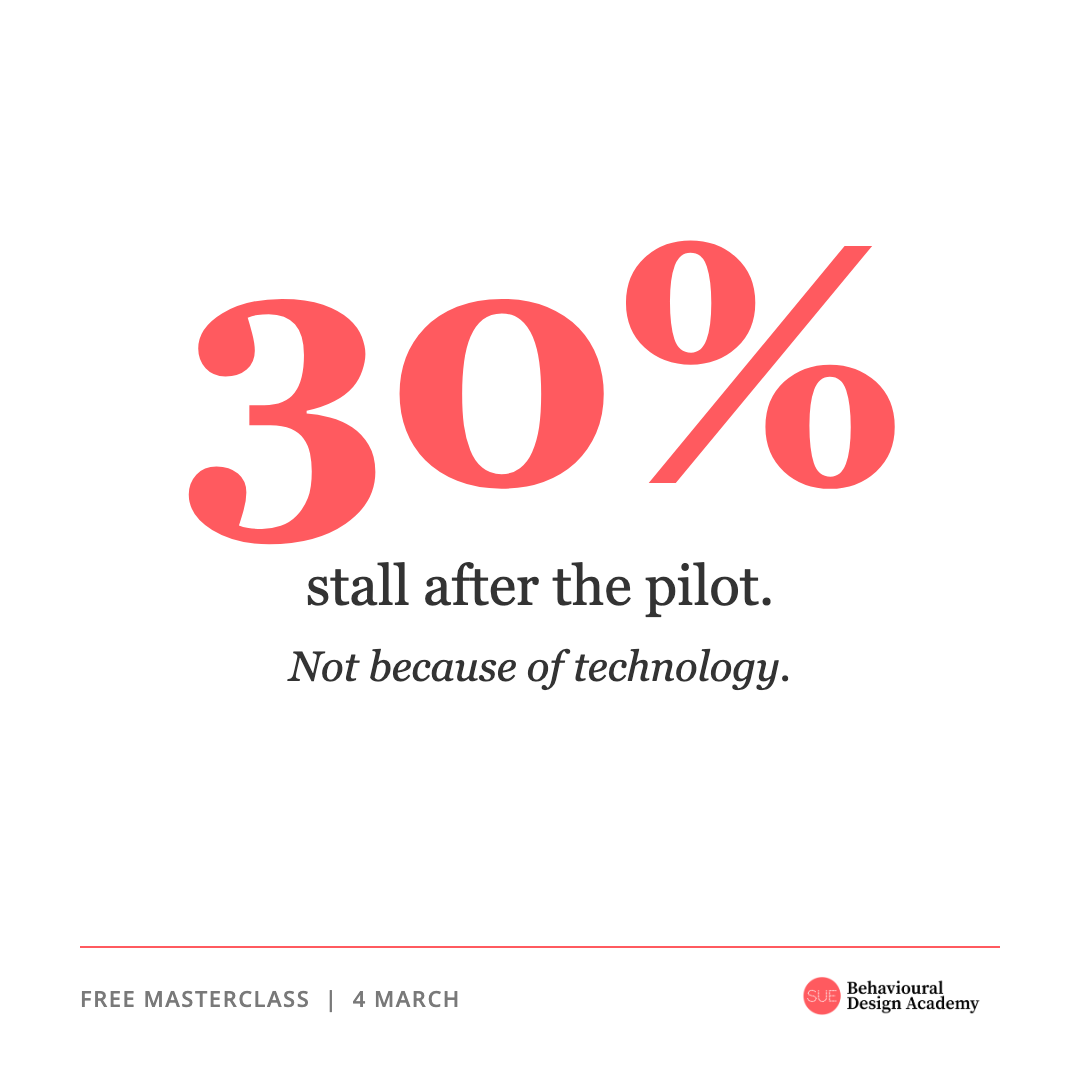
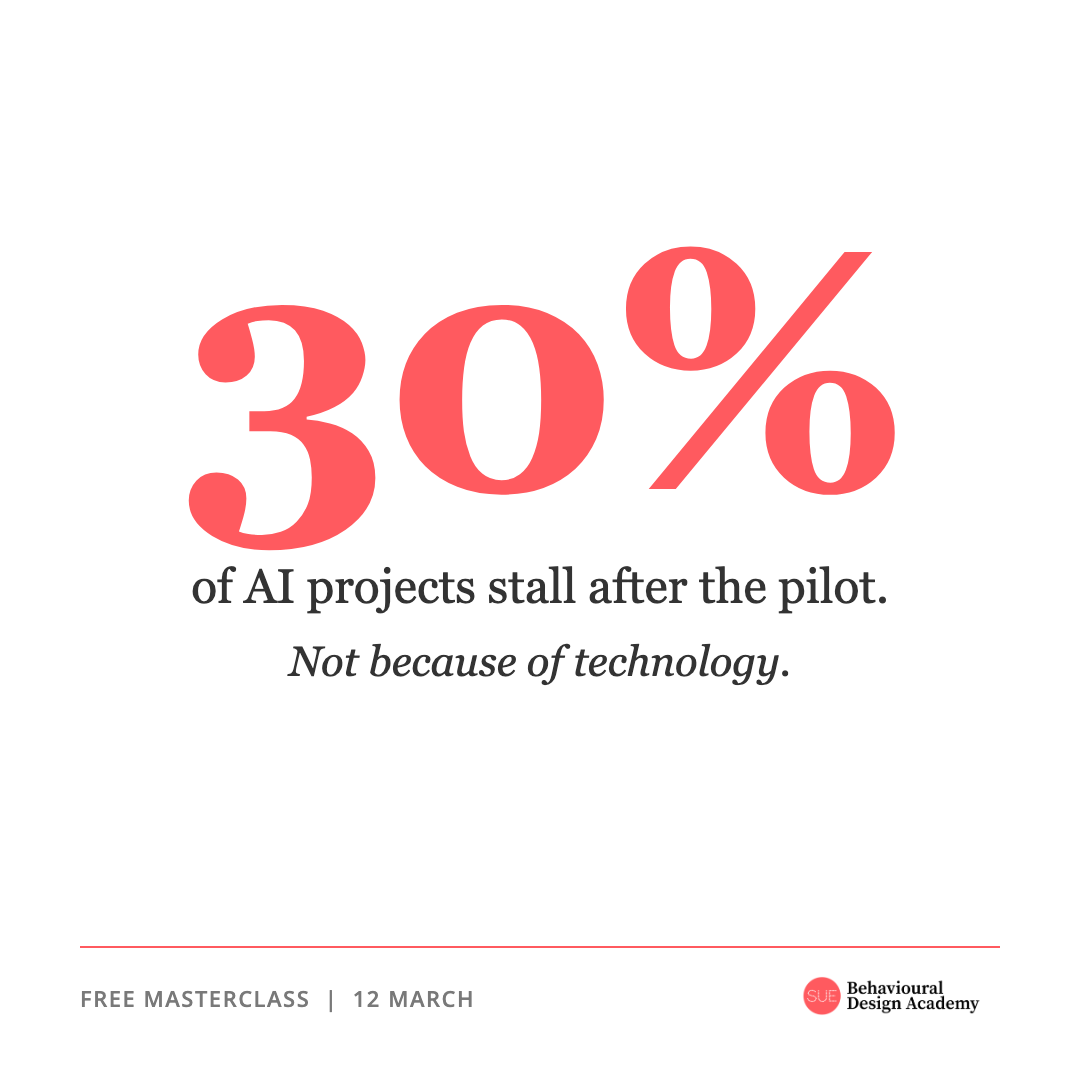
Update English webinar: March 12 date + new registration link
- Updated all dates from 4 March to 12 March on English landing page
- Replaced MS Teams registration link with new event ID
- Fixed Meta V1 ad copy: "of AI projects stall after the pilot"

diff --git a/webinar/en/index.html b/webinar/en/index.html
@@ -4,9 +4,9 @@
     <meta charset="UTF-8">
     <meta name="viewport" content="width=device-width, initial-scale=1.0">
     <title>Free Masterclass: Why AI Adoption Fails (And What Behavioural Science Says To Do About It) | SUE Behavioural Design</title>
-    <meta name="description" content="30% of AI projects stall after the pilot. Not because of technology. Because of behaviour. Join Tom de Bruyne on 4 March for four insights from 15 years of behavioural science. Free. 60 minutes. Online.">
+    <meta name="description" content="30% of AI projects stall after the pilot. Not because of technology. Because of behaviour. Join Tom de Bruyne on 12 March for four insights from 15 years of behavioural science. Free. 60 minutes. Online.">
     <meta property="og:title" content="Free Masterclass: The Behavioural Side of AI Adoption">
-    <meta property="og:description" content="Why 30% of AI projects stall after the pilot, and the four behavioural insights that determine whether yours delivers value. With Tom de Bruyne. 4 March, 10:00 CET.">
+    <meta property="og:description" content="Why 30% of AI projects stall after the pilot, and the four behavioural insights that determine whether yours delivers value. With Tom de Bruyne. 12 March, 10:00 CET.">
     <meta property="og:type" content="website">
     <meta property="og:url" content="https://training.suebehaviouraldesign.com/webinar/en/">
     <link rel="preconnect" href="https://fonts.googleapis.com">
@@ -1365,7 +1365,7 @@
                     <a href="https://www.suebehaviouraldesign.com/blog/" target="_blank">Blog</a>
                 </div>
             </li>
-            <li><a href="https://events.teams.microsoft.com/event/16bde694-a629-4a3f-b7b7-a5cc4494b0a2@810d8528-5dd4-438c-8d87-420d72f1a074/registration" target="_blank" class="nav-cta">Register for free</a></li>
+            <li><a href="https://events.teams.microsoft.com/event/675b0a7d-82c0-4dd9-bd81-6eff258af59c@810d8528-5dd4-438c-8d87-420d72f1a074/registration" target="_blank" class="nav-cta">Register for free</a></li>
         </ul>
         <div class="hamburger" onclick="toggleMobileMenu()">
             <span></span>
@@ -1387,7 +1387,7 @@
             <li><a href="https://www.suebehaviouraldesign.com/success-stories/" target="_blank" onclick="closeMobileMenu()">Success Stories</a></li>
             <li><a href="https://www.suebehaviouraldesign.com/blog/" target="_blank" onclick="closeMobileMenu()">Blog</a></li>
         </ul>
-        <a href="https://events.teams.microsoft.com/event/16bde694-a629-4a3f-b7b7-a5cc4494b0a2@810d8528-5dd4-438c-8d87-420d72f1a074/registration" target="_blank" class="nav-cta" onclick="closeMobileMenu()">Register for free</a>
+        <a href="https://events.teams.microsoft.com/event/675b0a7d-82c0-4dd9-bd81-6eff258af59c@810d8528-5dd4-438c-8d87-420d72f1a074/registration" target="_blank" class="nav-cta" onclick="closeMobileMenu()">Register for free</a>
     </div>
 
 
@@ -1407,11 +1407,11 @@
 
                     <p class="hero-sub">Everyone is investing in AI. Most organisations aren&rsquo;t seeing results. Not because of the technology. Because of how people work with it. In 60 minutes, Tom de Bruyne shares four behavioural science insights that determine whether your AI investment delivers value, or joins the 30% that stalls after the pilot.</p>
 
-                    <a href="https://events.teams.microsoft.com/event/16bde694-a629-4a3f-b7b7-a5cc4494b0a2@810d8528-5dd4-438c-8d87-420d72f1a074/registration" target="_blank" class="hero-cta">Register for free &rarr;</a>
+                    <a href="https://events.teams.microsoft.com/event/675b0a7d-82c0-4dd9-bd81-6eff258af59c@810d8528-5dd4-438c-8d87-420d72f1a074/registration" target="_blank" class="hero-cta">Register for free &rarr;</a>
 
                     <div class="hero-meta">
                         <div class="hero-meta-item">
-                            <span class="value">4 March 2026</span>
+                            <span class="value">12 March 2026</span>
                             <span class="label">Date</span>
                         </div>
                         <div class="hero-meta-item">
@@ -1525,8 +1525,8 @@
     <section class="mid-cta-section">
         <div class="container">
             <p>Gartner predicts that 30% of all gen-AI projects will be abandoned after the pilot phase. The question is: what approach will make your organisation part of the 70% that <span class="marker-circle"><span>breaks through</span></span>?</p>
-            <a href="https://events.teams.microsoft.com/event/16bde694-a629-4a3f-b7b7-a5cc4494b0a2@810d8528-5dd4-438c-8d87-420d72f1a074/registration" target="_blank" class="mid-cta-btn">Yes, register me for free &rarr;</a>
-            <div class="mid-cta-sub">4 March &bull; 10:00 - 11:00 CET &bull; Free &bull; Online</div>
+            <a href="https://events.teams.microsoft.com/event/675b0a7d-82c0-4dd9-bd81-6eff258af59c@810d8528-5dd4-438c-8d87-420d72f1a074/registration" target="_blank" class="mid-cta-btn">Yes, register me for free &rarr;</a>
+            <div class="mid-cta-sub">12 March &bull; 10:00 - 11:00 CET &bull; Free &bull; Online</div>
         </div>
     </section>
 
@@ -1562,14 +1562,14 @@
          ═══════════════════════════════════════════ -->
     <section class="cta-section" id="register">
         <div class="container">
-            <div class="eyebrow">Free Masterclass &bull; 4 March 2026</div>
+            <div class="eyebrow">Free Masterclass &bull; 12 March 2026</div>
             <h2>The organisations changing behaviour around AI now<br>are building an advantage that&rsquo;s hard to catch</h2>
             <p class="cta-urgency">With <span class="marker-underline">Tom de Bruyne</span>, author of <span class="marker-underline">Gamechangers</span> and co-founder of SUE Behavioural Design. 10,000+ professionals trained. Working with ABN AMRO, Heineken, KPN, Rabobank, and UNHCR.</p>
 
-            <a href="https://events.teams.microsoft.com/event/16bde694-a629-4a3f-b7b7-a5cc4494b0a2@810d8528-5dd4-438c-8d87-420d72f1a074/registration" target="_blank" class="cta-btn-coral">Register for free &rarr;</a>
+            <a href="https://events.teams.microsoft.com/event/675b0a7d-82c0-4dd9-bd81-6eff258af59c@810d8528-5dd4-438c-8d87-420d72f1a074/registration" target="_blank" class="cta-btn-coral">Register for free &rarr;</a>
 
             <div class="cta-details">
-                <span class="cta-detail"><strong>4 March 2026</strong></span>
+                <span class="cta-detail"><strong>12 March 2026</strong></span>
                 <span class="cta-detail"><strong>10:00 - 11:00 CET</strong> &bull; 60 minutes</span>
                 <span class="cta-detail"><strong>Online</strong> via MS Teams</span>
                 <span class="cta-detail"><strong>Free</strong> &bull; limited spots</span>
@@ -1580,8 +1580,8 @@
 
     <!-- STICKY BAR -->
     <div class="sticky-bar" id="sticky-bar">
-        <p>Free Masterclass: AI x Behavioural Science &bull; 4 March &bull; 10:00 CET</p>
-        <a href="https://events.teams.microsoft.com/event/16bde694-a629-4a3f-b7b7-a5cc4494b0a2@810d8528-5dd4-438c-8d87-420d72f1a074/registration" target="_blank">Register for free</a>
+        <p>Free Masterclass: AI x Behavioural Science &bull; 12 March &bull; 10:00 CET</p>
+        <a href="https://events.teams.microsoft.com/event/675b0a7d-82c0-4dd9-bd81-6eff258af59c@810d8528-5dd4-438c-8d87-420d72f1a074/registration" target="_blank">Register for free</a>
     </div>
 
 

diff --git a/webinar/ads/meta-v1-30pct.html b/webinar/ads/meta-v1-30pct.html
@@ -45,7 +45,7 @@
   .subline {
     font-family: Georgia, serif;
     font-weight: normal;
-    font-size: 56px;
+    font-size: 48px;
     color: #333333;
     line-height: 1.3;
     margin-bottom: 16px;
@@ -95,13 +95,13 @@
 <body>
   <div class="content">
     <div class="stat">30%</div>
-    <div class="subline">stall after the pilot.</div>
+    <div class="subline">of AI projects stall after the pilot.</div>
     <div class="subline-small">Not because of technology.</div>
   </div>
   <div class="bottom">
     <div class="divider"></div>
     <div class="bottom-row">
-      <div class="event-details">Free Masterclass&nbsp;&nbsp;|&nbsp;&nbsp;4 March</div>
+      <div class="event-details">Free Masterclass&nbsp;&nbsp;|&nbsp;&nbsp;12 March</div>
       <div class="logo-container">
         <img src="../SUE-Logo-bol-Behavioural-Design-Academy.png" alt="SUE">
       </div>
